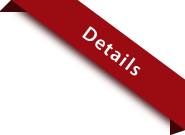
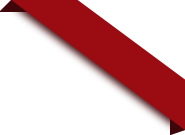
sreeshanth(profile details changes)
git-svn-id: file:///svn/fedena2.1/branches/fedena2.1_i18n@1165 1b8ff446-76f8-11e0-a33c-ba5893e5f458

Changed region(s): [[0.4324, 0.1778, 0.7568, 0.563]]

diff --git a/public/stylesheets/employee/profile.css b/public/stylesheets/employee/profile.css
@@ -649,3 +649,21 @@ html>body #nav ul.scriptaculously{/*ie shit*/
     border-bottom:1px solid #bdcfff;
     padding:10px 10px 10px 10px;
 }
+.profile{
+   -moz-transform: rotate(37deg);  /* FF3.5+ */
+    -o-transform: rotate(37deg);  /* Opera 10.5 */
+    -webkit-transform: rotate(37deg);  /* Saf3.1+, Chrome */
+    -ms-transform: rotate(37deg);  /* IE9 */
+    transform: rotate(37deg);
+    background: transparent/9;
+    -ms-filter: "progid:DXImageTransform.Microsoft.gradient(startColorstr=#00FFFFFF,endColorstr=#00FFFFFF)"; /* IE8 $ IE9*/
+    zoom: 1;
+    color: #FFFFFF;
+    font-size: 21px;
+    position: absolute;
+    font-weight: 200;
+    /*padding-left: 95px;
+    padding-top: 11px;*/
+    width:53px;
+    height: 250px
+}

diff --git a/public/stylesheets/rtl/employee/profile.css b/public/stylesheets/rtl/employee/profile.css
@@ -649,3 +649,21 @@ html>body #nav ul.scriptaculously{/*ie shit*/
     border-bottom:1px solid #bdcfff;
     padding:10px 10px 10px 10px;
 }
+.profile{
+   -moz-transform: rotate(37deg);  /* FF3.5+ */
+    -o-transform: rotate(37deg);  /* Opera 10.5 */
+    -webkit-transform: rotate(37deg);  /* Saf3.1+, Chrome */
+    -ms-transform: rotate(37deg);  /* IE9 */
+    transform: rotate(37deg);
+    background: transparent/9;
+    -ms-filter: "progid:DXImageTransform.Microsoft.gradient(startColorstr=#00FFFFFF,endColorstr=#00FFFFFF)"; /* IE8 $ IE9*/
+    zoom: 1;
+    color: #FFFFFF;
+    font-size: 21px;
+    position: absolute;
+    font-weight: 200;
+    /*padding-left: 95px;
+    padding-top: 11px;*/
+    width:53px;
+    height: 250px
+}

diff --git a/public/stylesheets/rtl/student/profile.css b/public/stylesheets/rtl/student/profile.css
@@ -347,3 +347,21 @@ html>body #nav ul.scriptaculously{/*ie shit*/
     margin:0;
 
 }
+.profile{
+   -moz-transform: rotate(37deg);  /* FF3.5+ */
+    -o-transform: rotate(37deg);  /* Opera 10.5 */
+    -webkit-transform: rotate(37deg);  /* Saf3.1+, Chrome */
+    -ms-transform: rotate(37deg);  /* IE9 */
+    transform: rotate(37deg);
+    background: transparent/9;
+    -ms-filter: "progid:DXImageTransform.Microsoft.gradient(startColorstr=#00FFFFFF,endColorstr=#00FFFFFF)"; /* IE8 $ IE9*/
+    zoom: 1;
+    color: #FFFFFF;
+    font-size: 21px;
+    position: absolute;
+    font-weight: 200;
+    /*padding-left: 95px;
+    padding-top: 11px;*/
+    width:53px;
+    height: 250px
+}

diff --git a/public/stylesheets/student/profile.css b/public/stylesheets/student/profile.css
@@ -347,3 +347,21 @@ html>body #nav ul.scriptaculously{/*ie shit*/
     margin:0;
 
 }
+.profile{
+   -moz-transform: rotate(37deg);  /* FF3.5+ */
+    -o-transform: rotate(37deg);  /* Opera 10.5 */
+    -webkit-transform: rotate(37deg);  /* Saf3.1+, Chrome */
+    -ms-transform: rotate(37deg);  /* IE9 */
+    transform: rotate(37deg);
+    background: transparent/9;
+    -ms-filter: "progid:DXImageTransform.Microsoft.gradient(startColorstr=#00FFFFFF,endColorstr=#00FFFFFF)"; /* IE8 $ IE9*/
+    zoom: 1;
+    color: #FFFFFF;
+    font-size: 21px;
+    position: absolute;
+    font-weight: 200;
+    /*padding-left: 95px;
+    padding-top: 11px;*/
+    width:53px;
+    height: 250px
+}
